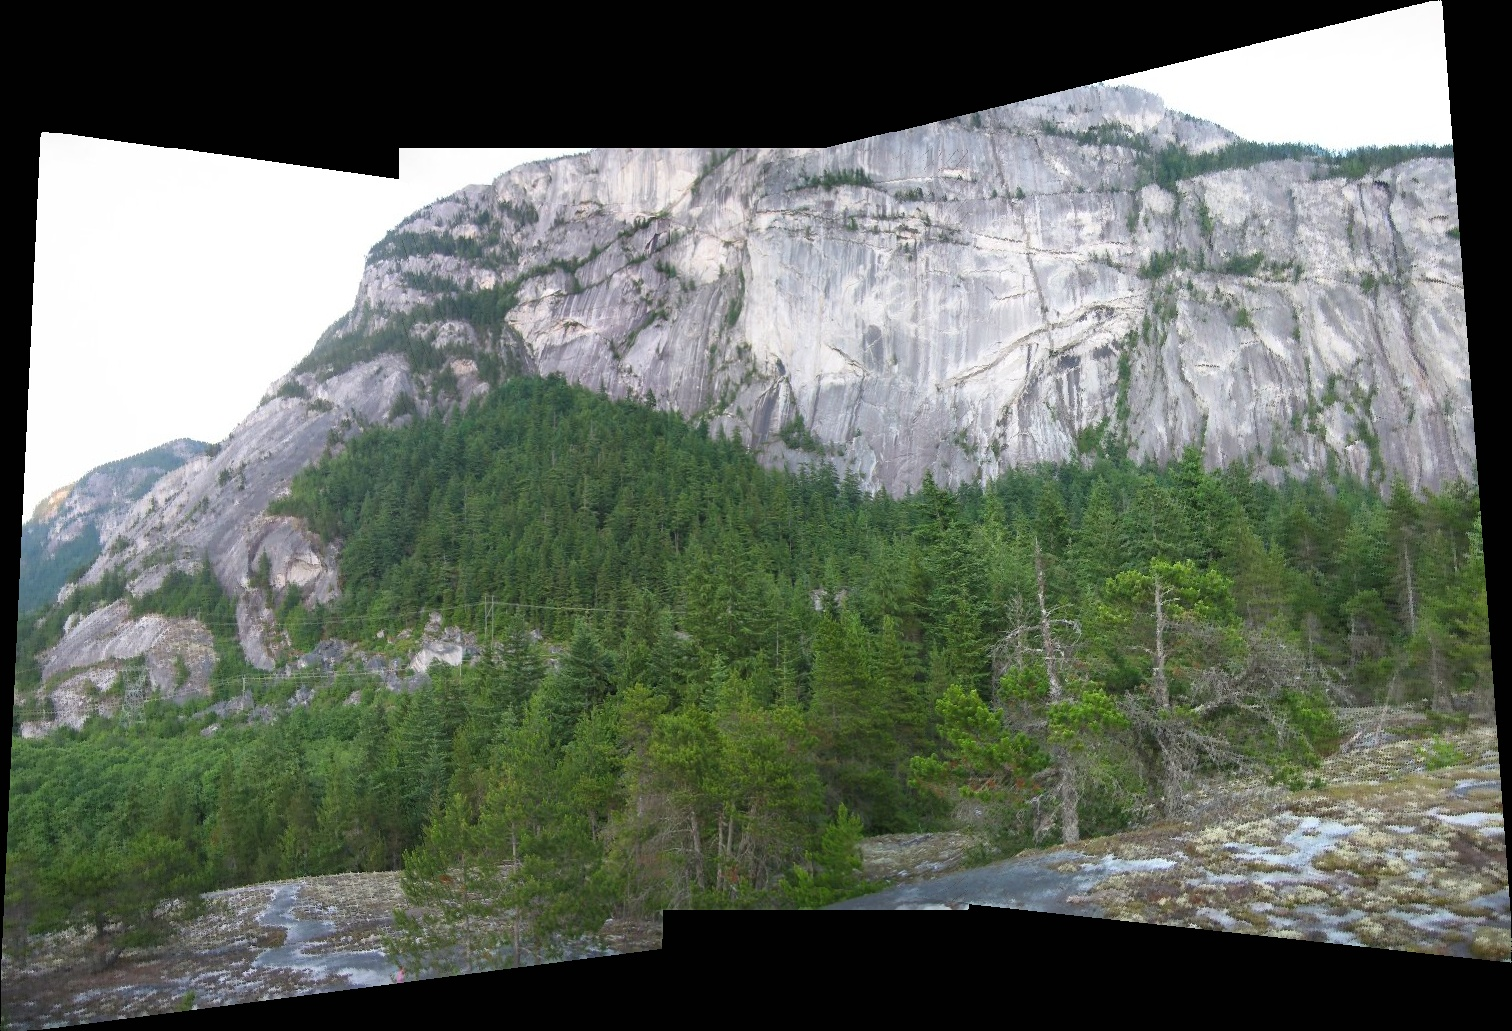
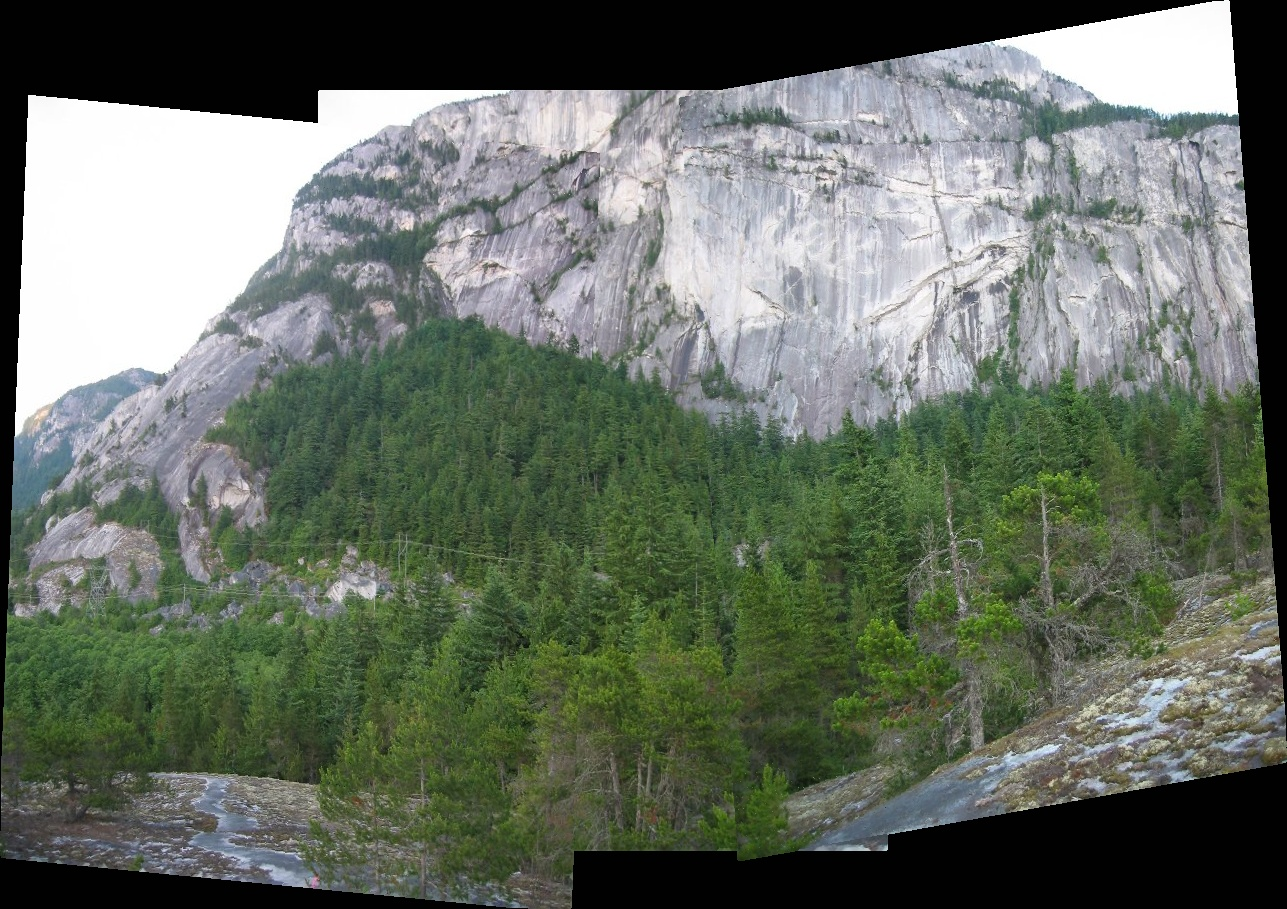
second commit

diff --git a/src/final.py b/src/final.py
@@ -4,6 +4,33 @@ import cv2
 from src.sttitching import *
 
 
+def findBesMatch(imgs):
+    kps   = []
+    deses = []
+    for i,img in enumerate(imgs):
+        surf     = cv2.xfeatures2d.SURF_create(400)
+        img1 = img1.astype('uint8')
+        kp, des = surf.detectAndCompute(img1,None)
+        kps.append(kp)
+        deses.append(des)
+    n = len(kps)
+    bestNum = 0
+    best = (0,1)
+    for i in range(n-1):
+        for j in range(i+1,n-1):
+            # BFMatcher with default params
+            bf      = cv2.BFMatcher()
+            matches = bf.knnMatch(deses[i],deses[j],k=2)
+            good_matches = []
+            for m,n in matches:
+                if m.distance < 0.25*n.distance:
+                    good_matches.append([m])
+            if len(good_matches) > bestNum:
+                best = (i,j)
+                bestNum = len(good_matches)
+
+    return imgs[i],imgs[j],kps[i],kps[j]
+
 
 def stitch(img1,img2):
     surf     = cv2.xfeatures2d.SURF_create(400)
@@ -16,15 +43,16 @@ def stitch(img1,img2):
     matches = bf.knnMatch(des1,des2,k=2)
     good_matches = []
     for m,n in matches:
-        if m.distance < 0.75*n.distance:
+        if m.distance < 0.25*n.distance:
             good_matches.append([m])
     # good_matches = matches
     # Select good matched keypoints
+    print(len(good_matches))
     matched_kpts1   = np.float32([kp1[m[0].queryIdx].pt for m in good_matches])
     matched_kpts2   = np.float32([kp2[m[0].trainIdx].pt for m in good_matches])
     # Compute homography
-    H, status    = cv2.findHomography(matched_kpts2, matched_kpts1, cv2.RANSAC,10)
-    # H = cv2.getPerspectiveTransform(matched_kpts2[:4], matched_kpts1[:4])
+    # H, status    = cv2.findHomography(matched_kpts2, matched_kpts1, cv2.RANSAC,10)
+    H = cv2.getAffineTransform(matched_kpts2[:3], matched_kpts1[:3])
     print(H)
 
     # Warp image
@@ -32,6 +60,10 @@ def stitch(img1,img2):
     res_im = stitchIm(matched_kpts1,matched_kpts2,img1,img2,H)
 
     return res_im
+
+
+
+
 
 def main():
     mountains = ['Mountain_2','Mountain_1','Mountain_3','Mountain_5','Mountain_4','Mountain_6','Mountain_7']

diff --git a/src/sttitching.py b/src/sttitching.py
@@ -95,10 +95,13 @@ def stitchIm(kps1,kps2,rgb_im1,rgb_im2,h):
     for i in range(0,size_im2[0]):
         for j in range(0,size_im2[1]):
             for k in range(3):
-                xnew = int( ((h[0,0]*j)+(h[0,1]*i)+h[0,2]) /
-                            ((h[2,0]*j)+(h[2,1]*i)+h[2,2]))
-                ynew = int( ((h[1,0]*j)+(h[1,1]*i)+h[1,2])
-                            /((h[2,0]*j)+(h[2,1]*i)+h[2,2]))
+                # xnew = int( ((h[0,0]*j)+(h[0,1]*i)+h[0,2]) /
+                #             ((h[2,0]*j)+(h[2,1]*i)+h[2,2]))
+                # ynew = int( ((h[1,0]*j)+(h[1,1]*i)+h[1,2])
+                #             /((h[2,0]*j)+(h[2,1]*i)+h[2,2]))
+                xnew = int( ((h[0,0]*j)+(h[0,1]*i)+h[0,2]) )
+                ynew = int( ((h[1,0]*j)+(h[1,1]*i)+h[1,2]))
+
                 xnew += int(S/2)*size_im2[1]
                 ynew += int(S/2)*size_im2[0]
                 res_im[ynew,xnew,k] = rgb_im2[i,j,k]
